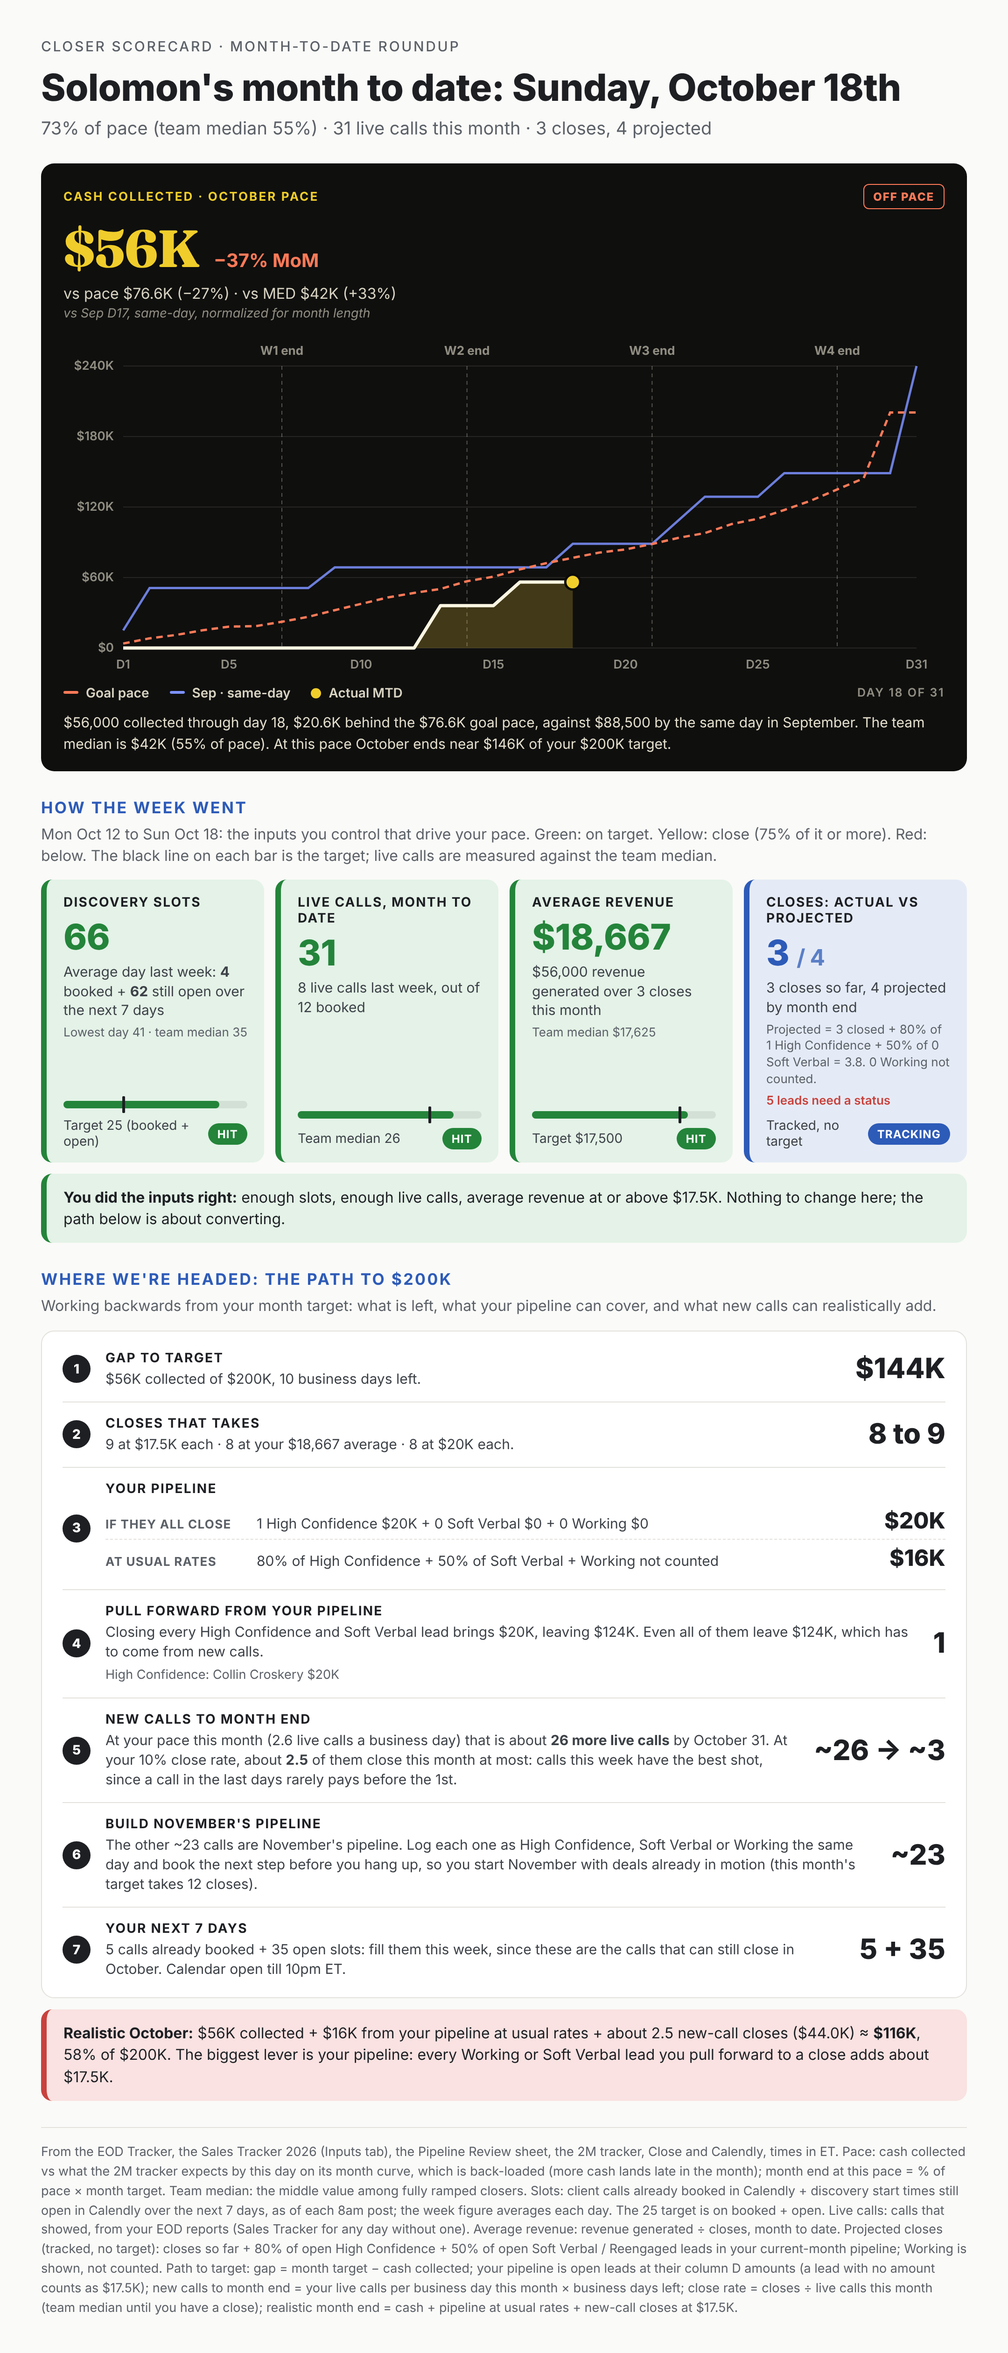
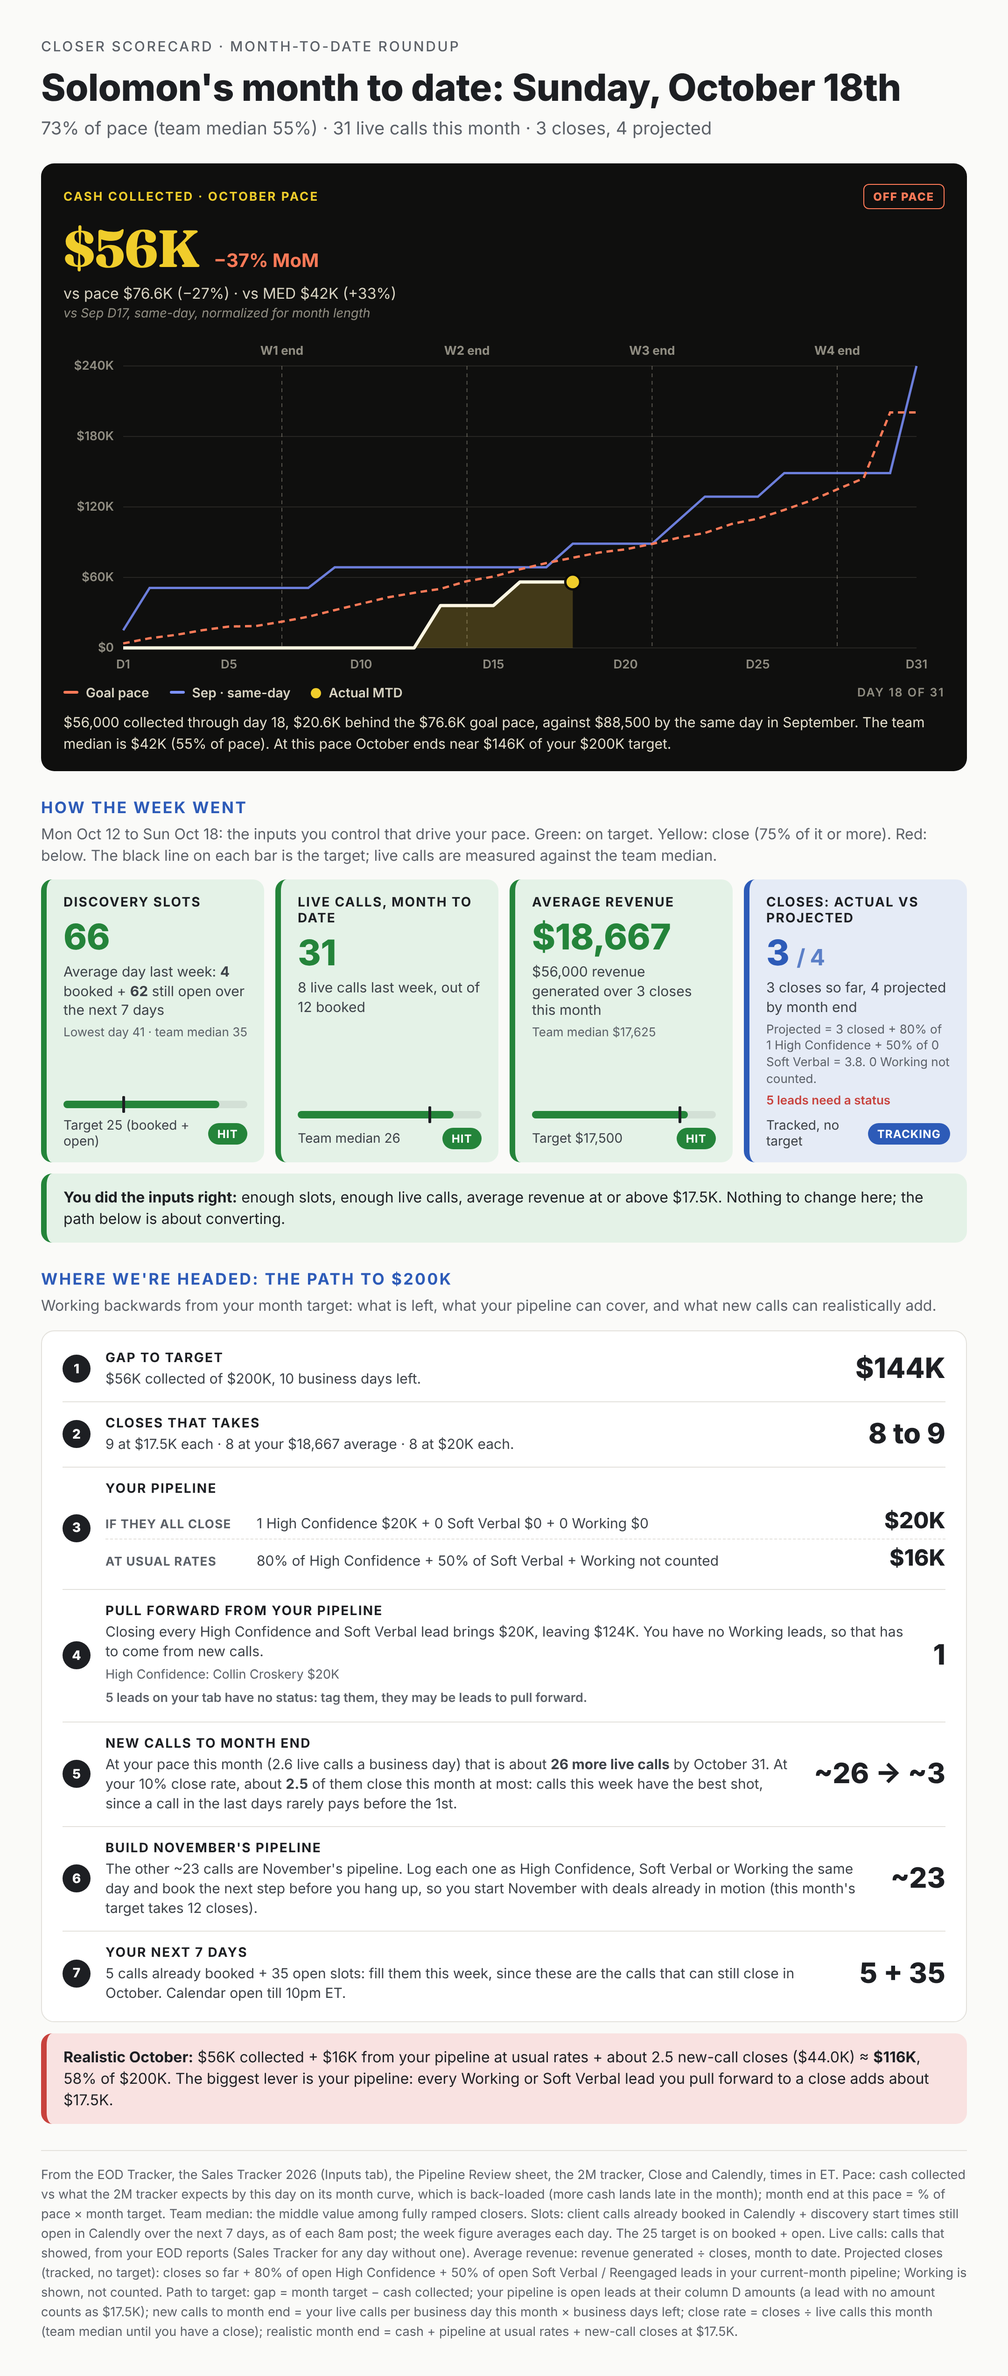
Path step 4: wording when there are no Working leads; flag untagged leads
Claude-Session: https://claude.ai/code/session_01QJR8Xkdb1fVxZpuW4LXwCd

diff --git a/out/wednesday-Harry.html b/out/wednesday-Harry.html
@@ -71,6 +71,7 @@ h1{font-size:40px;font-weight:800;letter-spacing:-.01em;margin:10px 0 8px}
 .rl{flex:none;width:150px;white-space:nowrap;font-size:13px;font-weight:700;color:var(--muted);text-transform:uppercase;letter-spacing:.05em}
 .rt{flex:1;font-size:15px;color:#3d4248}
 .rows b{font-size:24px;font-weight:800;white-space:nowrap}
+.warnt{color:var(--missed);font-weight:600}
 .names{margin-top:6px;font-size:13.5px;color:var(--muted);line-height:1.45}
 .verdict{margin-top:12px;border-radius:12px;padding:14px 18px;font-size:16px;line-height:1.45;border-left:6px solid}
 .verdict.hit{background:var(--hit-bg);border-color:var(--hit)} .verdict.almost{background:var(--almost-bg);border-color:var(--almost)}
@@ -143,7 +144,7 @@ tr.total td{background:#f1efea;font-weight:800}
 <div><span class="rl">If they all close</span><span class="rt">5 High Confidence $100K + 1 Soft Verbal $20K + 12 Working $238K</span><b>$358K</b></div>
 <div><span class="rl">At usual rates</span><span class="rt">80% of High Confidence + 50% of Soft Verbal + Working not counted</span><b>$90K</b></div>
 </div></div></div>
-<div class="step"><span class="sn">4</span><div class="sw"><div class="sl">Pull forward from your pipeline</div><div class="st">Closing every High Confidence and Soft Verbal lead brings $120K, leaving $82.8K. That means moving about <b>5 of your 12 Working leads</b> (about $19.8K each) to a yes this month: pick the ones closest to a decision and book their next call now.<div class="names">High Confidence: Kevin and Ben Pratt $20K, Dustin Schwichtenberg $20K, Andre Sakai $20K, Ari Brownstein $20K, Jack Morrissey $20K<br>Soft Verbal: Pai Her $20K</div></div></div><div class="sv">6 + 5 Working</div></div>
+<div class="step"><span class="sn">4</span><div class="sw"><div class="sl">Pull forward from your pipeline</div><div class="st">Closing every High Confidence and Soft Verbal lead brings $120K, leaving $82.8K. That means moving about <b>5 of your 12 Working leads</b> (about $19.8K each) to a yes this month: pick the ones closest to a decision and book their next call now.<div class="names">High Confidence: Kevin and Ben Pratt $20K, Dustin Schwichtenberg $20K, Andre Sakai $20K, Ari Brownstein $20K, Jack Morrissey $20K<br>Soft Verbal: Pai Her $20K</div><div class="names warnt">3 leads on your tab have no status: tag them, they may be leads to pull forward.</div></div></div><div class="sv">6 + 5 Working</div></div>
 <div class="step"><span class="sn">5</span><div class="sw"><div class="sl">New calls to month end</div><div class="st">At your pace this month (2.3 live calls a business day) that is about <b>18 more live calls</b> by October 31. At your 6% close rate, about <b>1.1</b> of them close this month at most: calls this week have the best shot, since a call in the last days rarely pays before the 1st.</div></div><div class="sv">~18 → ~1</div></div>
 <div class="step"><span class="sn">6</span><div class="sw"><div class="sl">Build November's pipeline</div><div class="st">The other ~17 calls are November's pipeline. Log each one as High Confidence, Soft Verbal or Working the same day and book the next step before you hang up, so you start November with deals already in motion (this month's target takes 15 closes).</div></div><div class="sv">~17</div></div>
 <div class="step"><span class="sn">7</span><div class="sw"><div class="sl">Your next 7 days</div><div class="st">6 calls already booked + 36 open slots: fill them this week, since these are the calls that can still close in October. Calendar open till 6pm ET.</div></div><div class="sv">6 + 36</div></div>

diff --git a/out/monday-Harry.html b/out/monday-Harry.html
@@ -71,6 +71,7 @@ h1{font-size:40px;font-weight:800;letter-spacing:-.01em;margin:10px 0 8px}
 .rl{flex:none;width:150px;white-space:nowrap;font-size:13px;font-weight:700;color:var(--muted);text-transform:uppercase;letter-spacing:.05em}
 .rt{flex:1;font-size:15px;color:#3d4248}
 .rows b{font-size:24px;font-weight:800;white-space:nowrap}
+.warnt{color:var(--missed);font-weight:600}
 .names{margin-top:6px;font-size:13.5px;color:var(--muted);line-height:1.45}
 .verdict{margin-top:12px;border-radius:12px;padding:14px 18px;font-size:16px;line-height:1.45;border-left:6px solid}
 .verdict.hit{background:var(--hit-bg);border-color:var(--hit)} .verdict.almost{background:var(--almost-bg);border-color:var(--almost)}
@@ -143,7 +144,7 @@ tr.total td{background:#f1efea;font-weight:800}
 <div><span class="rl">If they all close</span><span class="rt">5 High Confidence $100K + 1 Soft Verbal $20K + 12 Working $238K</span><b>$358K</b></div>
 <div><span class="rl">At usual rates</span><span class="rt">80% of High Confidence + 50% of Soft Verbal + Working not counted</span><b>$90K</b></div>
 </div></div></div>
-<div class="step"><span class="sn">4</span><div class="sw"><div class="sl">Pull forward from your pipeline</div><div class="st">Closing every High Confidence and Soft Verbal lead brings $120K, leaving $102K. That means moving about <b>6 of your 12 Working leads</b> (about $19.8K each) to a yes this month: pick the ones closest to a decision and book their next call now.<div class="names">High Confidence: Kevin and Ben Pratt $20K, Dustin Schwichtenberg $20K, Andre Sakai $20K, Ari Brownstein $20K, Jack Morrissey $20K<br>Soft Verbal: Pai Her $20K</div></div></div><div class="sv">6 + 6 Working</div></div>
+<div class="step"><span class="sn">4</span><div class="sw"><div class="sl">Pull forward from your pipeline</div><div class="st">Closing every High Confidence and Soft Verbal lead brings $120K, leaving $102K. That means moving about <b>6 of your 12 Working leads</b> (about $19.8K each) to a yes this month: pick the ones closest to a decision and book their next call now.<div class="names">High Confidence: Kevin and Ben Pratt $20K, Dustin Schwichtenberg $20K, Andre Sakai $20K, Ari Brownstein $20K, Jack Morrissey $20K<br>Soft Verbal: Pai Her $20K</div><div class="names warnt">3 leads on your tab have no status: tag them, they may be leads to pull forward.</div></div></div><div class="sv">6 + 6 Working</div></div>
 <div class="step"><span class="sn">5</span><div class="sw"><div class="sl">New calls to month end</div><div class="st">At your pace this month (2.5 live calls a business day) that is about <b>25 more live calls</b> by October 31. At your 7% close rate, about <b>1.7</b> of them close this month at most: calls this week have the best shot, since a call in the last days rarely pays before the 1st.</div></div><div class="sv">~25 → ~2</div></div>
 <div class="step"><span class="sn">6</span><div class="sw"><div class="sl">Build November's pipeline</div><div class="st">The other ~23 calls are November's pipeline. Log each one as High Confidence, Soft Verbal or Working the same day and book the next step before you hang up, so you start November with deals already in motion (this month's target takes 15 closes).</div></div><div class="sv">~23</div></div>
 <div class="step"><span class="sn">7</span><div class="sw"><div class="sl">Your next 7 days</div><div class="st">8 calls already booked + 34 open slots: fill them this week, since these are the calls that can still close in October. Calendar open till 6pm ET.</div></div><div class="sv">8 + 34</div></div>

diff --git a/out/monday-Solomon.html b/out/monday-Solomon.html
@@ -71,6 +71,7 @@ h1{font-size:40px;font-weight:800;letter-spacing:-.01em;margin:10px 0 8px}
 .rl{flex:none;width:150px;white-space:nowrap;font-size:13px;font-weight:700;color:var(--muted);text-transform:uppercase;letter-spacing:.05em}
 .rt{flex:1;font-size:15px;color:#3d4248}
 .rows b{font-size:24px;font-weight:800;white-space:nowrap}
+.warnt{color:var(--missed);font-weight:600}
 .names{margin-top:6px;font-size:13.5px;color:var(--muted);line-height:1.45}
 .verdict{margin-top:12px;border-radius:12px;padding:14px 18px;font-size:16px;line-height:1.45;border-left:6px solid}
 .verdict.hit{background:var(--hit-bg);border-color:var(--hit)} .verdict.almost{background:var(--almost-bg);border-color:var(--almost)}
@@ -143,7 +144,7 @@ tr.total td{background:#f1efea;font-weight:800}
 <div><span class="rl">If they all close</span><span class="rt">1 High Confidence $20K + 0 Soft Verbal $0 + 0 Working $0</span><b>$20K</b></div>
 <div><span class="rl">At usual rates</span><span class="rt">80% of High Confidence + 50% of Soft Verbal + Working not counted</span><b>$16K</b></div>
 </div></div></div>
-<div class="step"><span class="sn">4</span><div class="sw"><div class="sl">Pull forward from your pipeline</div><div class="st">Closing every High Confidence and Soft Verbal lead brings $20K, leaving $124K.  Even all of them leave $124K, which has to come from new calls.<div class="names">High Confidence: Collin Croskery $20K</div></div></div><div class="sv">1</div></div>
+<div class="step"><span class="sn">4</span><div class="sw"><div class="sl">Pull forward from your pipeline</div><div class="st">Closing every High Confidence and Soft Verbal lead brings $20K, leaving $124K.  You have no Working leads, so that has to come from new calls.<div class="names">High Confidence: Collin Croskery $20K</div><div class="names warnt">5 leads on your tab have no status: tag them, they may be leads to pull forward.</div></div></div><div class="sv">1</div></div>
 <div class="step"><span class="sn">5</span><div class="sw"><div class="sl">New calls to month end</div><div class="st">At your pace this month (2.6 live calls a business day) that is about <b>26 more live calls</b> by October 31. At your 10% close rate, about <b>2.5</b> of them close this month at most: calls this week have the best shot, since a call in the last days rarely pays before the 1st.</div></div><div class="sv">~26 → ~3</div></div>
 <div class="step"><span class="sn">6</span><div class="sw"><div class="sl">Build November's pipeline</div><div class="st">The other ~23 calls are November's pipeline. Log each one as High Confidence, Soft Verbal or Working the same day and book the next step before you hang up, so you start November with deals already in motion (this month's target takes 12 closes).</div></div><div class="sv">~23</div></div>
 <div class="step"><span class="sn">7</span><div class="sw"><div class="sl">Your next 7 days</div><div class="st">5 calls already booked + 35 open slots: fill them this week, since these are the calls that can still close in October. Calendar open till 10pm ET.</div></div><div class="sv">5 + 35</div></div>

diff --git a/out/wednesday-Solomon.html b/out/wednesday-Solomon.html
@@ -71,6 +71,7 @@ h1{font-size:40px;font-weight:800;letter-spacing:-.01em;margin:10px 0 8px}
 .rl{flex:none;width:150px;white-space:nowrap;font-size:13px;font-weight:700;color:var(--muted);text-transform:uppercase;letter-spacing:.05em}
 .rt{flex:1;font-size:15px;color:#3d4248}
 .rows b{font-size:24px;font-weight:800;white-space:nowrap}
+.warnt{color:var(--missed);font-weight:600}
 .names{margin-top:6px;font-size:13.5px;color:var(--muted);line-height:1.45}
 .verdict{margin-top:12px;border-radius:12px;padding:14px 18px;font-size:16px;line-height:1.45;border-left:6px solid}
 .verdict.hit{background:var(--hit-bg);border-color:var(--hit)} .verdict.almost{background:var(--almost-bg);border-color:var(--almost)}
@@ -143,7 +144,7 @@ tr.total td{background:#f1efea;font-weight:800}
 <div><span class="rl">If they all close</span><span class="rt">1 High Confidence $20K + 0 Soft Verbal $0 + 0 Working $0</span><b>$20K</b></div>
 <div><span class="rl">At usual rates</span><span class="rt">80% of High Confidence + 50% of Soft Verbal + Working not counted</span><b>$16K</b></div>
 </div></div></div>
-<div class="step"><span class="sn">4</span><div class="sw"><div class="sl">Pull forward from your pipeline</div><div class="st">Closing every High Confidence and Soft Verbal lead brings $20K, leaving $124K.  Even all of them leave $124K, which has to come from new calls.<div class="names">High Confidence: Collin Croskery $20K</div></div></div><div class="sv">1</div></div>
+<div class="step"><span class="sn">4</span><div class="sw"><div class="sl">Pull forward from your pipeline</div><div class="st">Closing every High Confidence and Soft Verbal lead brings $20K, leaving $124K.  You have no Working leads, so that has to come from new calls.<div class="names">High Confidence: Collin Croskery $20K</div><div class="names warnt">5 leads on your tab have no status: tag them, they may be leads to pull forward.</div></div></div><div class="sv">1</div></div>
 <div class="step"><span class="sn">5</span><div class="sw"><div class="sl">New calls to month end</div><div class="st">At your pace this month (2.4 live calls a business day) that is about <b>19 more live calls</b> by October 31. At your 9% close rate, about <b>1.7</b> of them close this month at most: calls this week have the best shot, since a call in the last days rarely pays before the 1st.</div></div><div class="sv">~19 → ~2</div></div>
 <div class="step"><span class="sn">6</span><div class="sw"><div class="sl">Build November's pipeline</div><div class="st">The other ~17 calls are November's pipeline. Log each one as High Confidence, Soft Verbal or Working the same day and book the next step before you hang up, so you start November with deals already in motion (this month's target takes 12 closes).</div></div><div class="sv">~17</div></div>
 <div class="step"><span class="sn">7</span><div class="sw"><div class="sl">Your next 7 days</div><div class="st">4 calls already booked + 34 open slots: fill them this week, since these are the calls that can still close in October. Calendar open till 10pm ET.</div></div><div class="sv">4 + 34</div></div>

diff --git a/out/monday-Adam.html b/out/monday-Adam.html
@@ -71,6 +71,7 @@ h1{font-size:40px;font-weight:800;letter-spacing:-.01em;margin:10px 0 8px}
 .rl{flex:none;width:150px;white-space:nowrap;font-size:13px;font-weight:700;color:var(--muted);text-transform:uppercase;letter-spacing:.05em}
 .rt{flex:1;font-size:15px;color:#3d4248}
 .rows b{font-size:24px;font-weight:800;white-space:nowrap}
+.warnt{color:var(--missed);font-weight:600}
 .names{margin-top:6px;font-size:13.5px;color:var(--muted);line-height:1.45}
 .verdict{margin-top:12px;border-radius:12px;padding:14px 18px;font-size:16px;line-height:1.45;border-left:6px solid}
 .verdict.hit{background:var(--hit-bg);border-color:var(--hit)} .verdict.almost{background:var(--almost-bg);border-color:var(--almost)}

diff --git a/out/monday-Daniel.html b/out/monday-Daniel.html
@@ -71,6 +71,7 @@ h1{font-size:40px;font-weight:800;letter-spacing:-.01em;margin:10px 0 8px}
 .rl{flex:none;width:150px;white-space:nowrap;font-size:13px;font-weight:700;color:var(--muted);text-transform:uppercase;letter-spacing:.05em}
 .rt{flex:1;font-size:15px;color:#3d4248}
 .rows b{font-size:24px;font-weight:800;white-space:nowrap}
+.warnt{color:var(--missed);font-weight:600}
 .names{margin-top:6px;font-size:13.5px;color:var(--muted);line-height:1.45}
 .verdict{margin-top:12px;border-radius:12px;padding:14px 18px;font-size:16px;line-height:1.45;border-left:6px solid}
 .verdict.hit{background:var(--hit-bg);border-color:var(--hit)} .verdict.almost{background:var(--almost-bg);border-color:var(--almost)}

diff --git a/out/monday-JZ.html b/out/monday-JZ.html
@@ -71,6 +71,7 @@ h1{font-size:40px;font-weight:800;letter-spacing:-.01em;margin:10px 0 8px}
 .rl{flex:none;width:150px;white-space:nowrap;font-size:13px;font-weight:700;color:var(--muted);text-transform:uppercase;letter-spacing:.05em}
 .rt{flex:1;font-size:15px;color:#3d4248}
 .rows b{font-size:24px;font-weight:800;white-space:nowrap}
+.warnt{color:var(--missed);font-weight:600}
 .names{margin-top:6px;font-size:13.5px;color:var(--muted);line-height:1.45}
 .verdict{margin-top:12px;border-radius:12px;padding:14px 18px;font-size:16px;line-height:1.45;border-left:6px solid}
 .verdict.hit{background:var(--hit-bg);border-color:var(--hit)} .verdict.almost{background:var(--almost-bg);border-color:var(--almost)}

diff --git a/out/monday-Julien.html b/out/monday-Julien.html
@@ -71,6 +71,7 @@ h1{font-size:40px;font-weight:800;letter-spacing:-.01em;margin:10px 0 8px}
 .rl{flex:none;width:150px;white-space:nowrap;font-size:13px;font-weight:700;color:var(--muted);text-transform:uppercase;letter-spacing:.05em}
 .rt{flex:1;font-size:15px;color:#3d4248}
 .rows b{font-size:24px;font-weight:800;white-space:nowrap}
+.warnt{color:var(--missed);font-weight:600}
 .names{margin-top:6px;font-size:13.5px;color:var(--muted);line-height:1.45}
 .verdict{margin-top:12px;border-radius:12px;padding:14px 18px;font-size:16px;line-height:1.45;border-left:6px solid}
 .verdict.hit{background:var(--hit-bg);border-color:var(--hit)} .verdict.almost{background:var(--almost-bg);border-color:var(--almost)}

diff --git a/out/monday-Kevin.html b/out/monday-Kevin.html
@@ -71,6 +71,7 @@ h1{font-size:40px;font-weight:800;letter-spacing:-.01em;margin:10px 0 8px}
 .rl{flex:none;width:150px;white-space:nowrap;font-size:13px;font-weight:700;color:var(--muted);text-transform:uppercase;letter-spacing:.05em}
 .rt{flex:1;font-size:15px;color:#3d4248}
 .rows b{font-size:24px;font-weight:800;white-space:nowrap}
+.warnt{color:var(--missed);font-weight:600}
 .names{margin-top:6px;font-size:13.5px;color:var(--muted);line-height:1.45}
 .verdict{margin-top:12px;border-radius:12px;padding:14px 18px;font-size:16px;line-height:1.45;border-left:6px solid}
 .verdict.hit{background:var(--hit-bg);border-color:var(--hit)} .verdict.almost{background:var(--almost-bg);border-color:var(--almost)}

diff --git a/out/monday-Nick.html b/out/monday-Nick.html
@@ -71,6 +71,7 @@ h1{font-size:40px;font-weight:800;letter-spacing:-.01em;margin:10px 0 8px}
 .rl{flex:none;width:150px;white-space:nowrap;font-size:13px;font-weight:700;color:var(--muted);text-transform:uppercase;letter-spacing:.05em}
 .rt{flex:1;font-size:15px;color:#3d4248}
 .rows b{font-size:24px;font-weight:800;white-space:nowrap}
+.warnt{color:var(--missed);font-weight:600}
 .names{margin-top:6px;font-size:13.5px;color:var(--muted);line-height:1.45}
 .verdict{margin-top:12px;border-radius:12px;padding:14px 18px;font-size:16px;line-height:1.45;border-left:6px solid}
 .verdict.hit{background:var(--hit-bg);border-color:var(--hit)} .verdict.almost{background:var(--almost-bg);border-color:var(--almost)}

diff --git a/out/monday-Oliver.html b/out/monday-Oliver.html
@@ -71,6 +71,7 @@ h1{font-size:40px;font-weight:800;letter-spacing:-.01em;margin:10px 0 8px}
 .rl{flex:none;width:150px;white-space:nowrap;font-size:13px;font-weight:700;color:var(--muted);text-transform:uppercase;letter-spacing:.05em}
 .rt{flex:1;font-size:15px;color:#3d4248}
 .rows b{font-size:24px;font-weight:800;white-space:nowrap}
+.warnt{color:var(--missed);font-weight:600}
 .names{margin-top:6px;font-size:13.5px;color:var(--muted);line-height:1.45}
 .verdict{margin-top:12px;border-radius:12px;padding:14px 18px;font-size:16px;line-height:1.45;border-left:6px solid}
 .verdict.hit{background:var(--hit-bg);border-color:var(--hit)} .verdict.almost{background:var(--almost-bg);border-color:var(--almost)}

diff --git a/out/monday-Omar.html b/out/monday-Omar.html
@@ -71,6 +71,7 @@ h1{font-size:40px;font-weight:800;letter-spacing:-.01em;margin:10px 0 8px}
 .rl{flex:none;width:150px;white-space:nowrap;font-size:13px;font-weight:700;color:var(--muted);text-transform:uppercase;letter-spacing:.05em}
 .rt{flex:1;font-size:15px;color:#3d4248}
 .rows b{font-size:24px;font-weight:800;white-space:nowrap}
+.warnt{color:var(--missed);font-weight:600}
 .names{margin-top:6px;font-size:13.5px;color:var(--muted);line-height:1.45}
 .verdict{margin-top:12px;border-radius:12px;padding:14px 18px;font-size:16px;line-height:1.45;border-left:6px solid}
 .verdict.hit{background:var(--hit-bg);border-color:var(--hit)} .verdict.almost{background:var(--almost-bg);border-color:var(--almost)}
